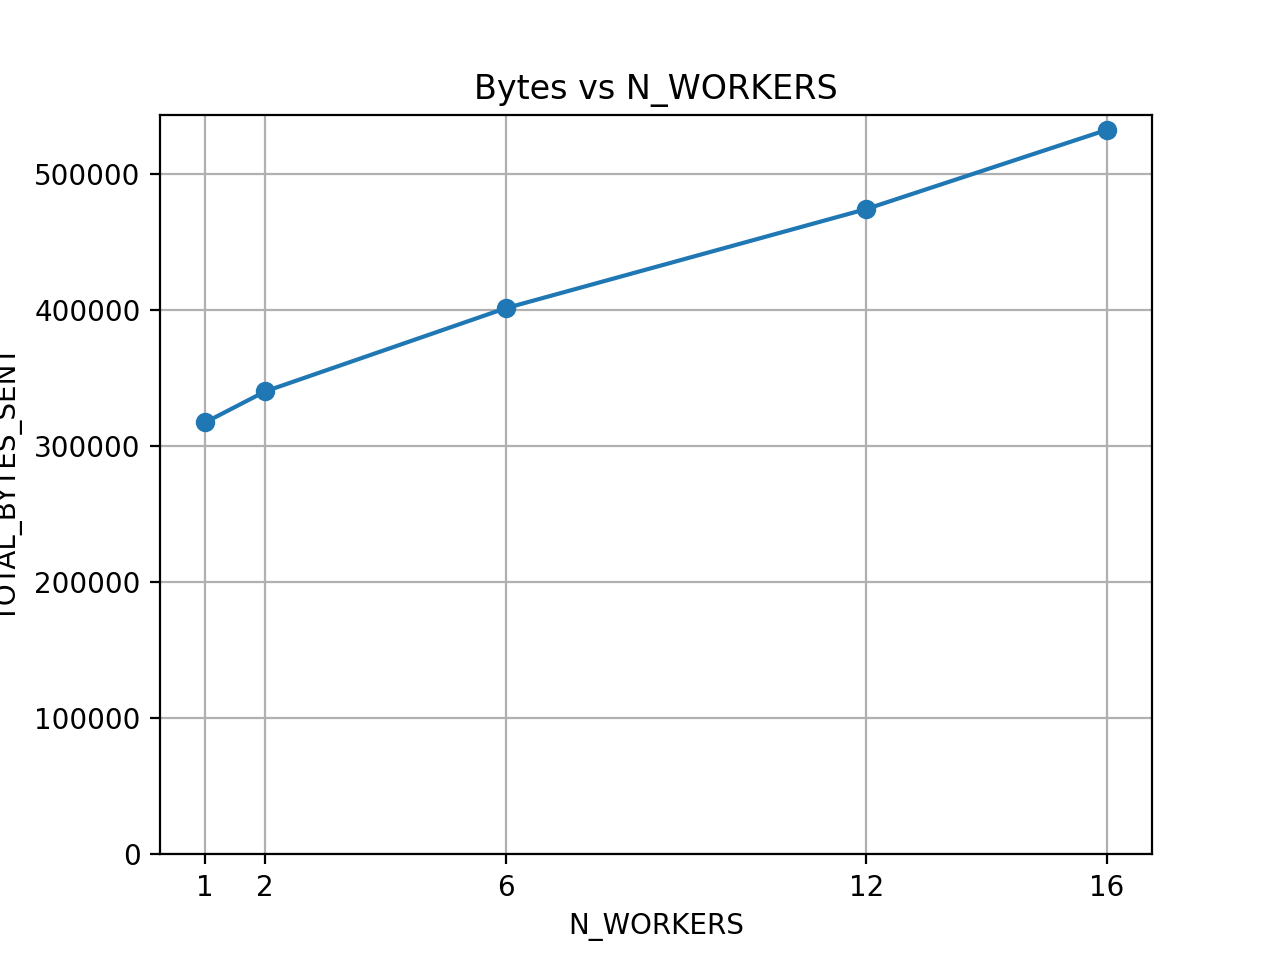
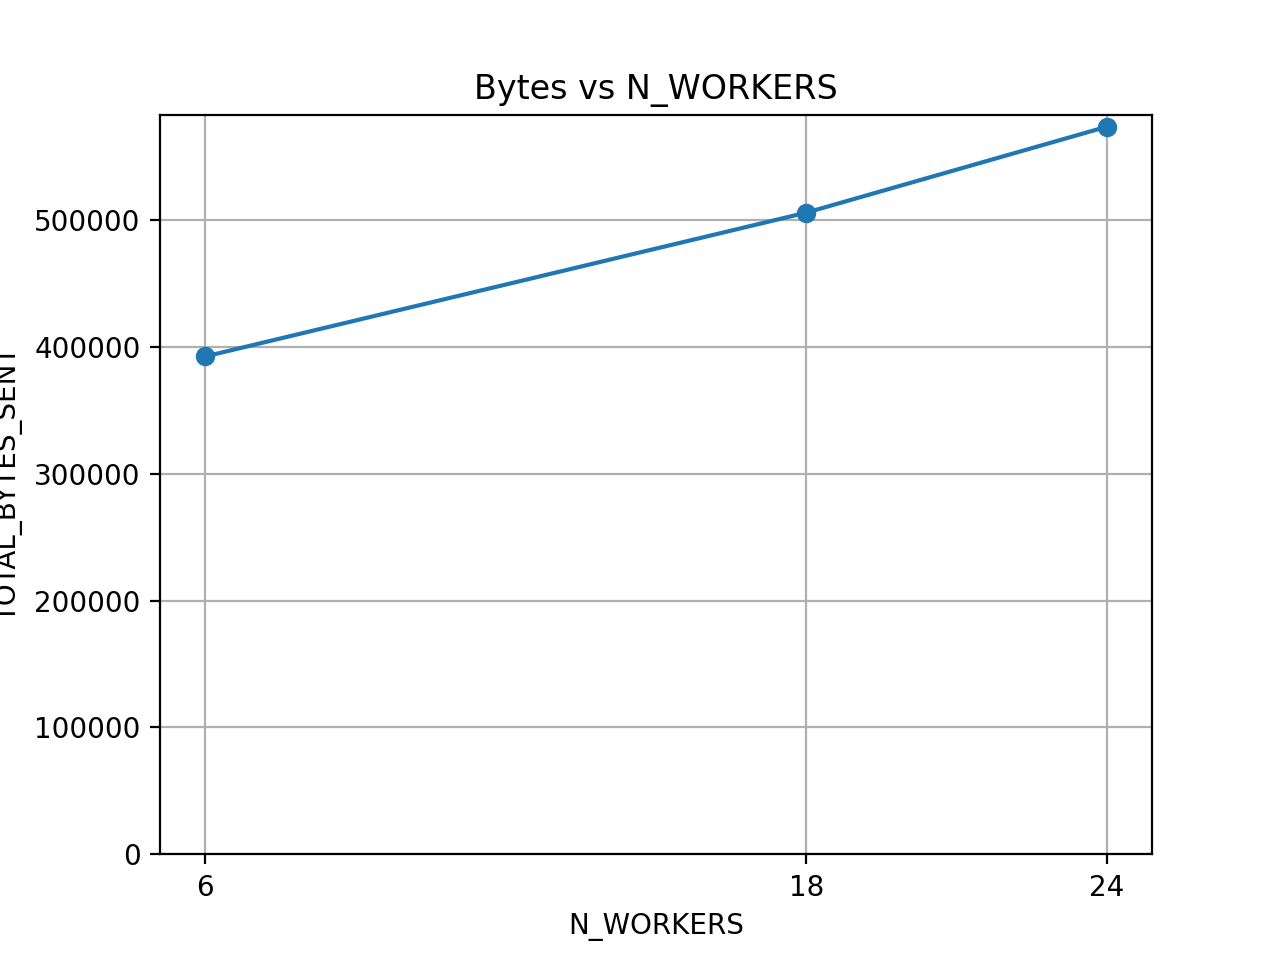
fe

diff --git a/java/src/main/java/experimentation/Experimentation.java b/java/src/main/java/experimentation/Experimentation.java
@@ -18,12 +18,17 @@ public class Experimentation {
     private static String bootstrap = cfg.KAFKA_HOST;
     private static float LOSS_THRESHOLD_MIN_ORIGINAL;
     private static float LOSS_THRESHOLD_MAX_ORIGINAL;
-    // private static List<Integer> workersList = List.of(2, 6, 12);
     // private static List<Integer> workersList = List.of(2, 4, 6);
+    // private static List<Integer> workersList = List.of(2, 6, 12);
     // private static List<Integer> workersList = List.of(2, 12, 24); // make sure that INDEPENDENT_WORKER_DATA_PROCESSING == false
     // private static List<Integer> workersList = List.of(1, 2, 6, 12); // ignore 1 (warm up) just see 2, 12, 24
-    private static List<Integer> workersList = List.of(1, 2, 6, 12, 16); // ignore 1 (warm up) just see 2, 12, 24
+    // private static List<Integer> workersList = List.of(1, 2, 6, 12, 16); // ignore 1 (warm up) just see 2, 12, 24
+    // private static List<Integer> workersList = List.of(1, 2, 6, 12, 16, 20); 
 
+    // Scenario with high workers:
+    private static List<Integer> workersList = List.of(6, 18, 24);
+
+    // ========================================================================
     private static List<Float> theshold_offset_list = List.of(0.00f, 0.1f, 0.2f);
 
     public static void main(String[] args) throws Exception {
